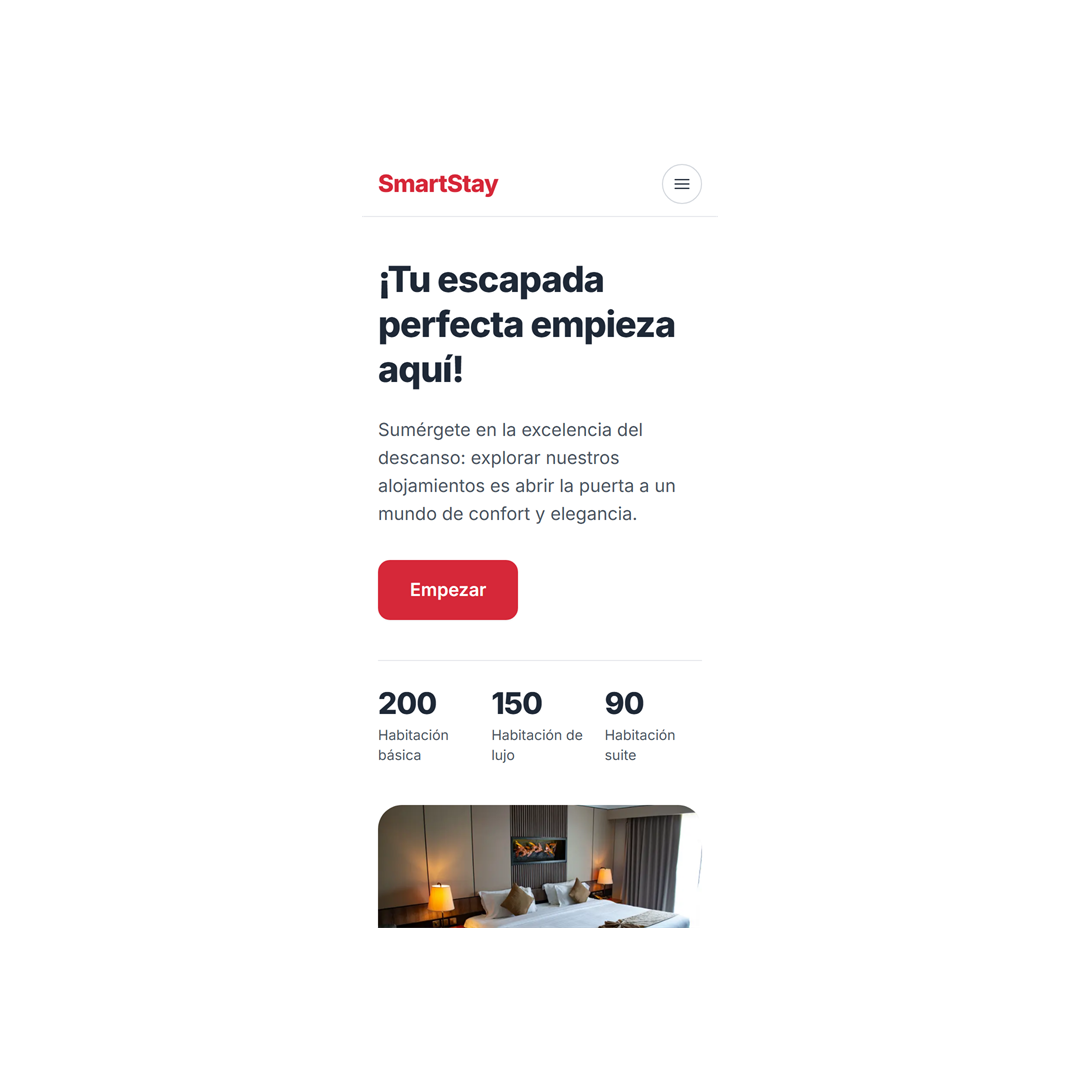
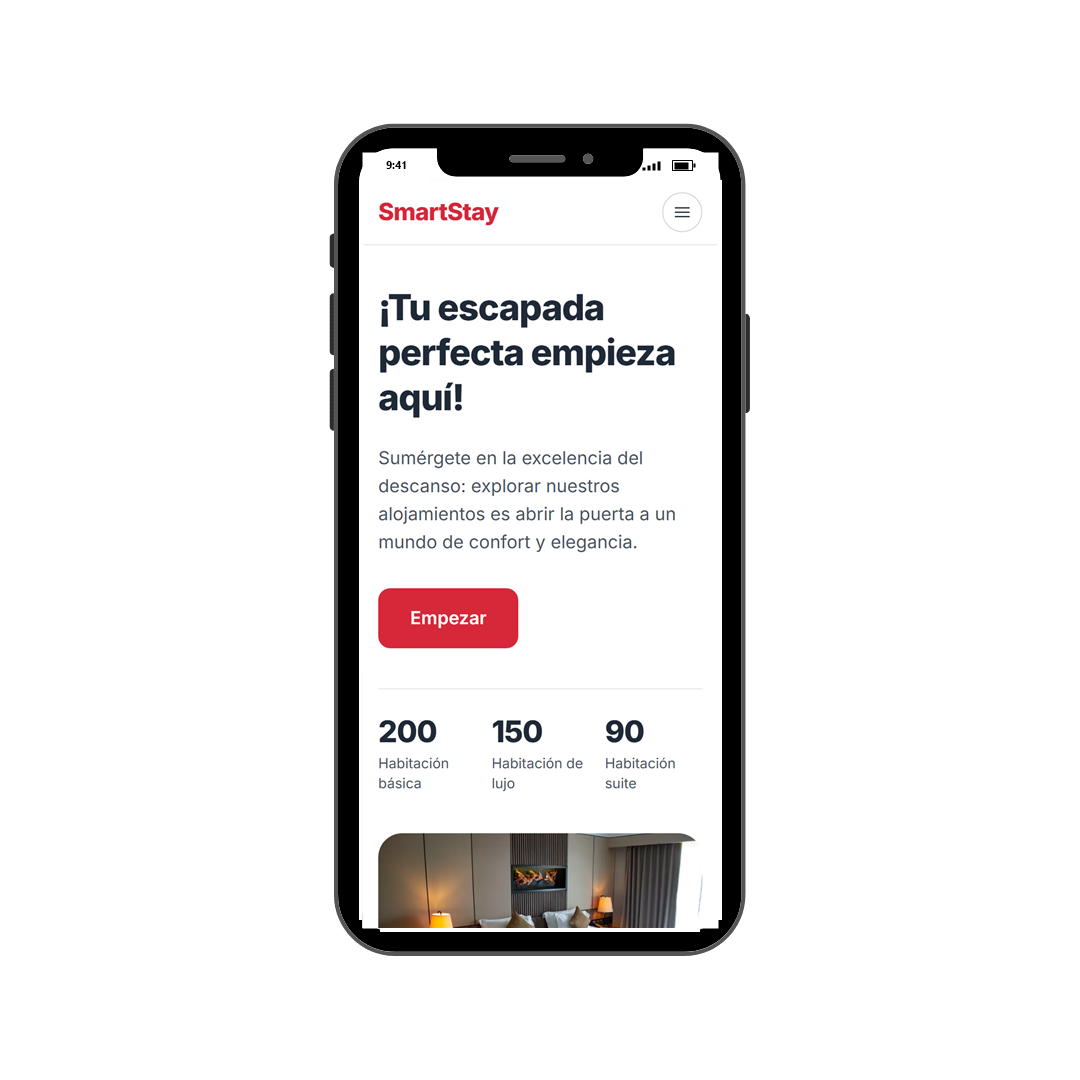
fix: restore the phone mockup on the SmartStay mobile image and refine its description

Changed region(s): [[0.3056, 0.0917, 0.7028, 0.8861]]

diff --git a/mi-portfolio/src/infrastructure/repositories/projectRepository.ts b/mi-portfolio/src/infrastructure/repositories/projectRepository.ts
@@ -102,12 +102,12 @@ const sources: ProjectSource[] = [
       es: {
         label: "Web",
         description:
-          "Reserva de alojamientos bilingüe (ES/EN) con precios en USD/EUR, búsqueda por fechas disponibles, pago con Stripe, foto de perfil y reseñas, con arquitectura limpia, tests y CI.",
+          "Reserva de alojamientos bilingüe con precios en USD/EUR, búsqueda por fechas disponibles, pago con Stripe, perfil de usuario y reseñas, con clean architecture, tests y CI.",
       },
       en: {
         label: "Web",
         description:
-          "Bilingual (ES/EN) accommodation booking with USD/EUR pricing, availability search by dates, Stripe payments, profile photos and reviews, built with clean architecture, tests and CI.",
+          "Bilingual accommodation booking with USD/EUR pricing, availability search by dates, Stripe payments, user profile and reviews, built with clean architecture, tests and CI.",
       },
     },
   },
